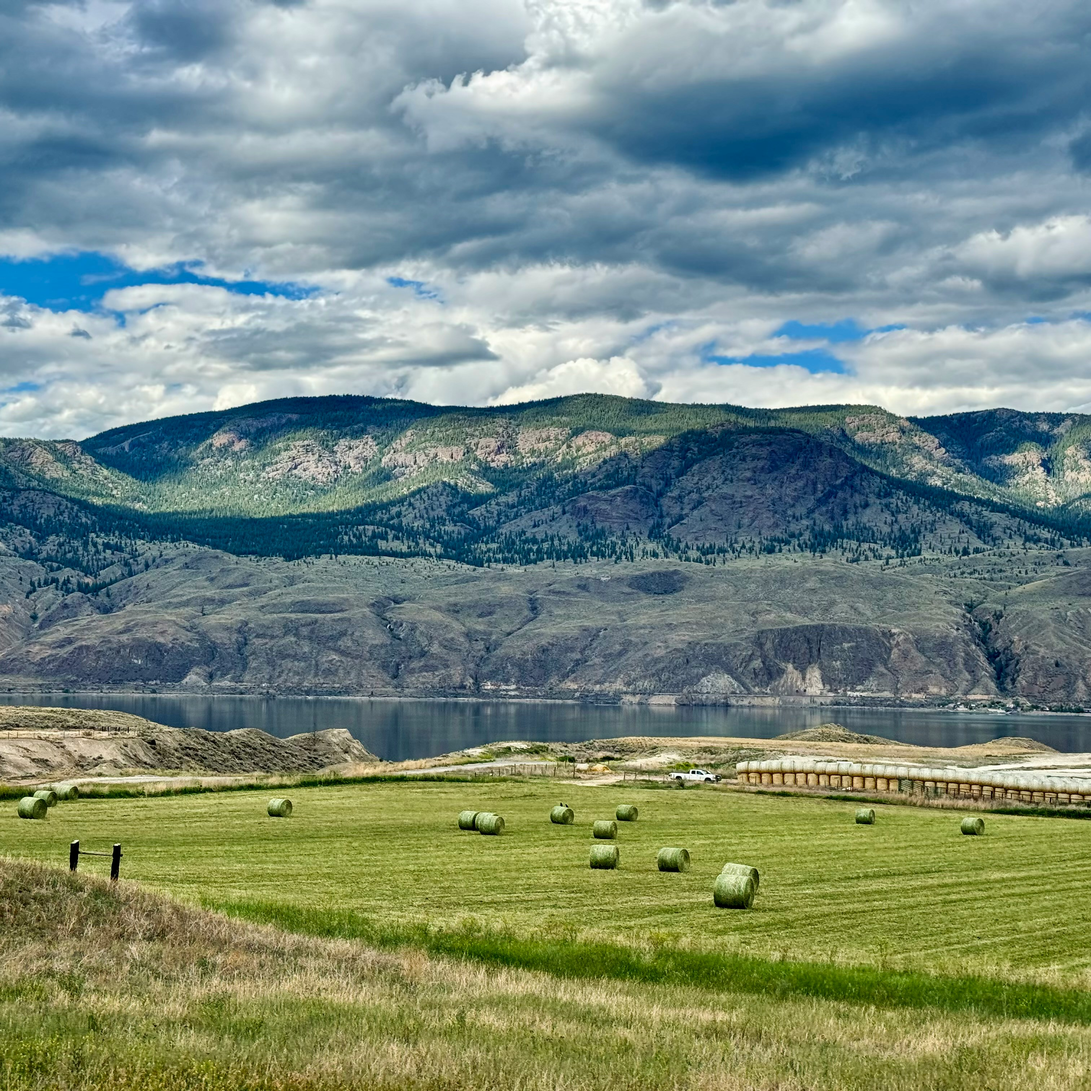
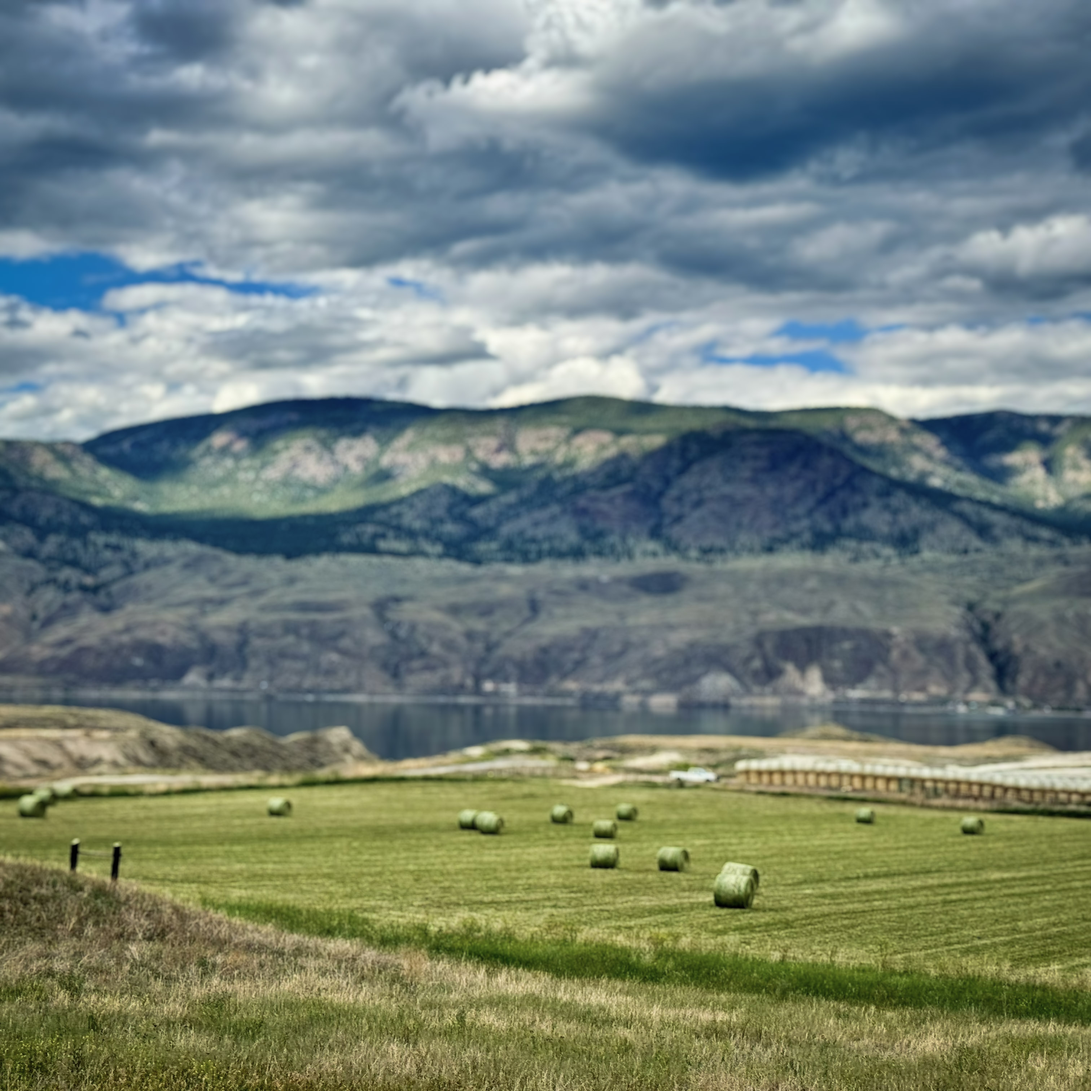
Added website background image

diff --git a/index.html b/index.html
@@ -3,7 +3,13 @@
 <html lang="en-US">
 <head>
     <style>
-        body {background-color: rgba(79, 158, 169, 0.8);}    
+        body 
+        {   
+            background-image: url('C:/Personal/personal-website/images/background_image.jpg'); /* Replace with your image file */
+            background-repeat: no-repeat; /* Optional: Prevent image from repeating */
+            background-size: cover; /* Optional: Make the image cover the entire area */
+            background-attachment: fixed; /* Optional: Keep the image fixed while scrolling */
+        }    
     </style>
 </head>
 <body>
